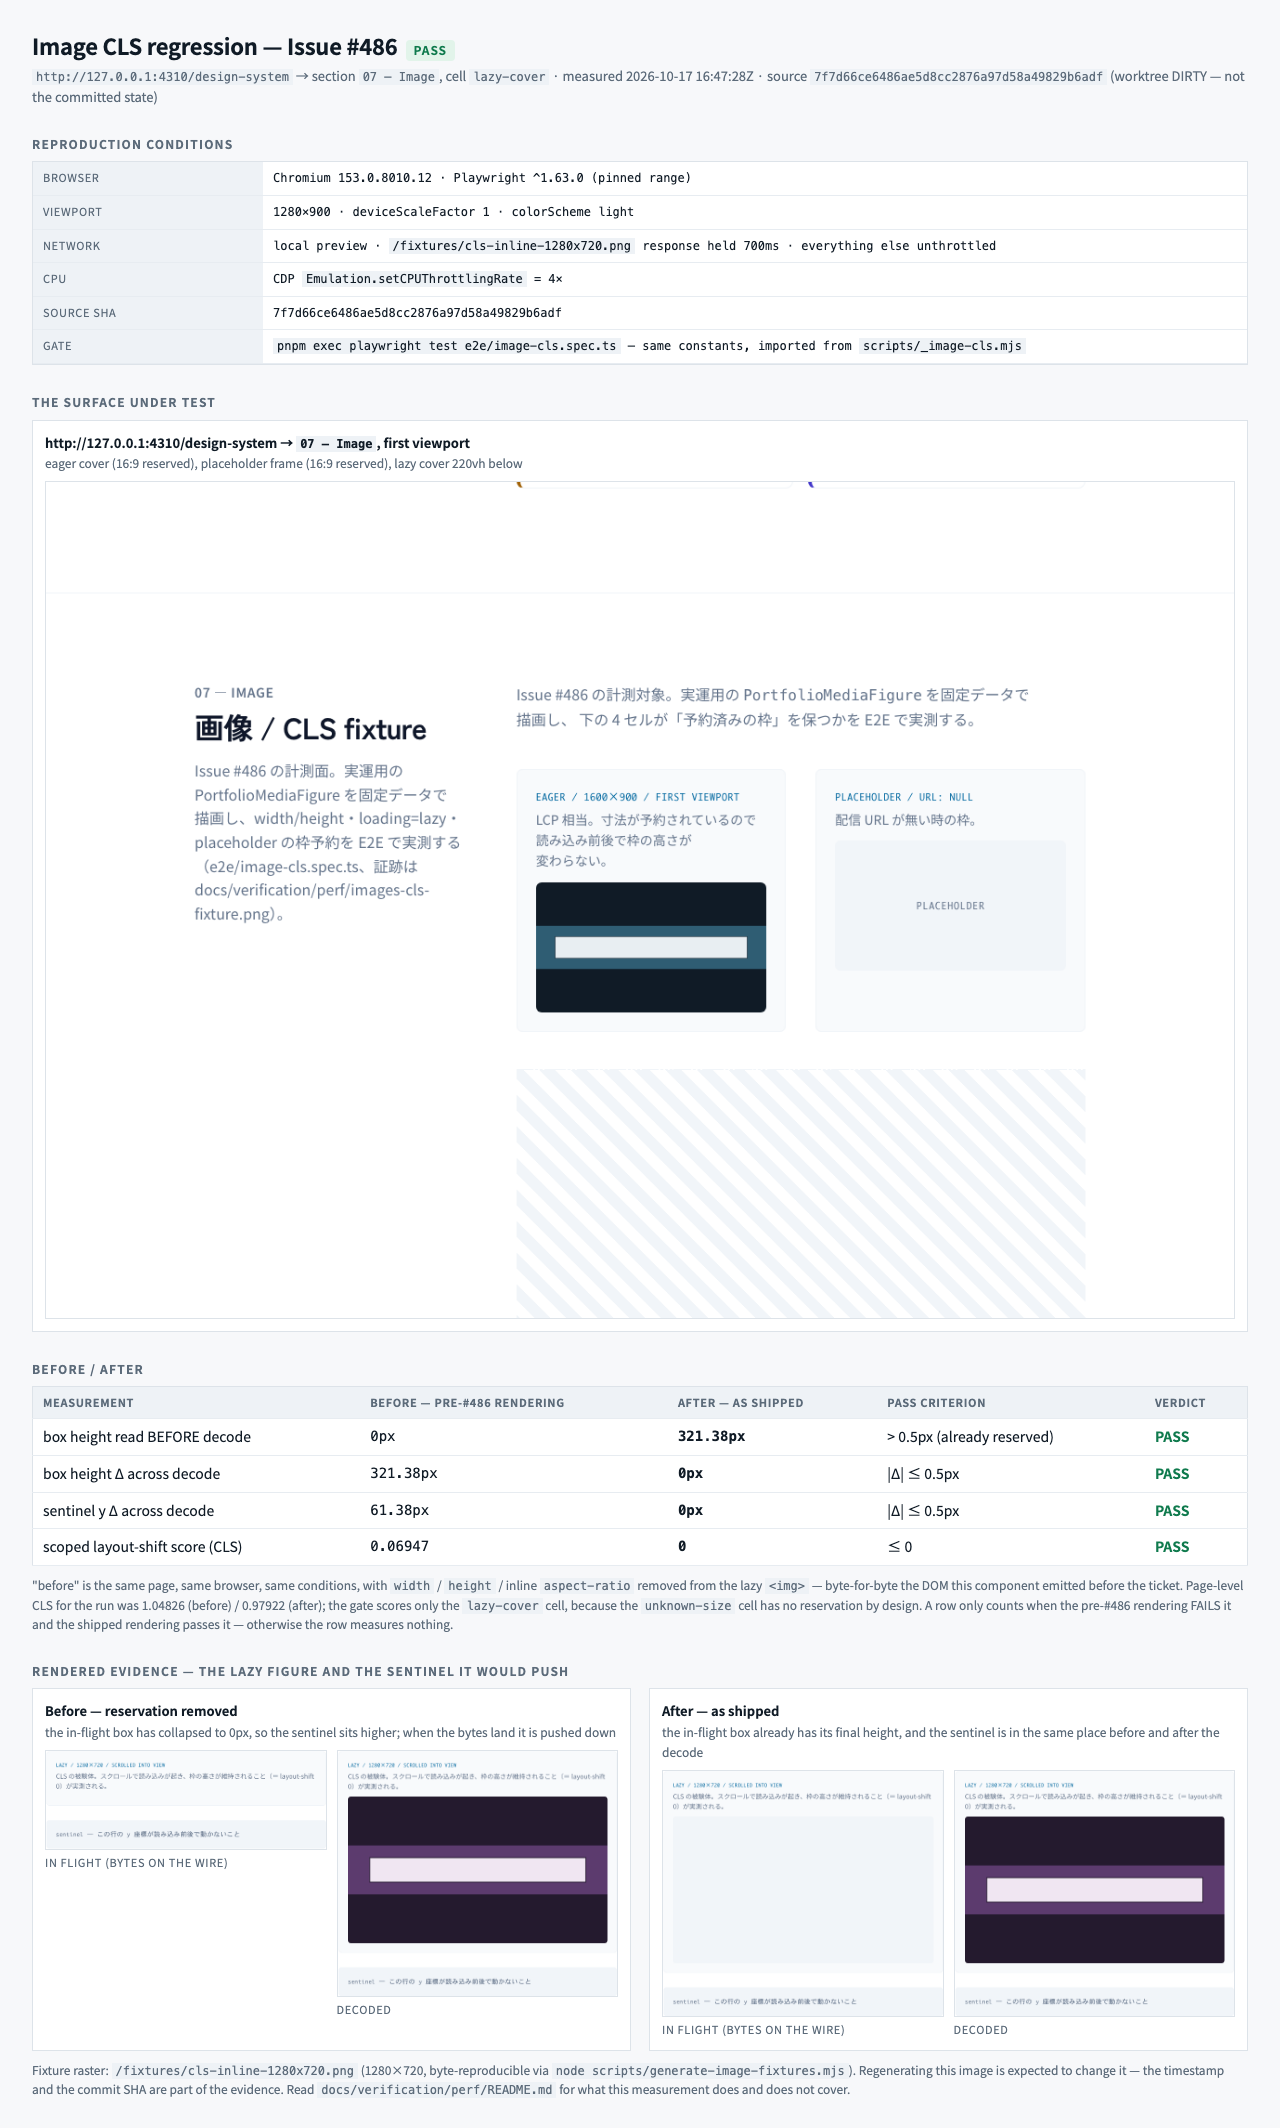
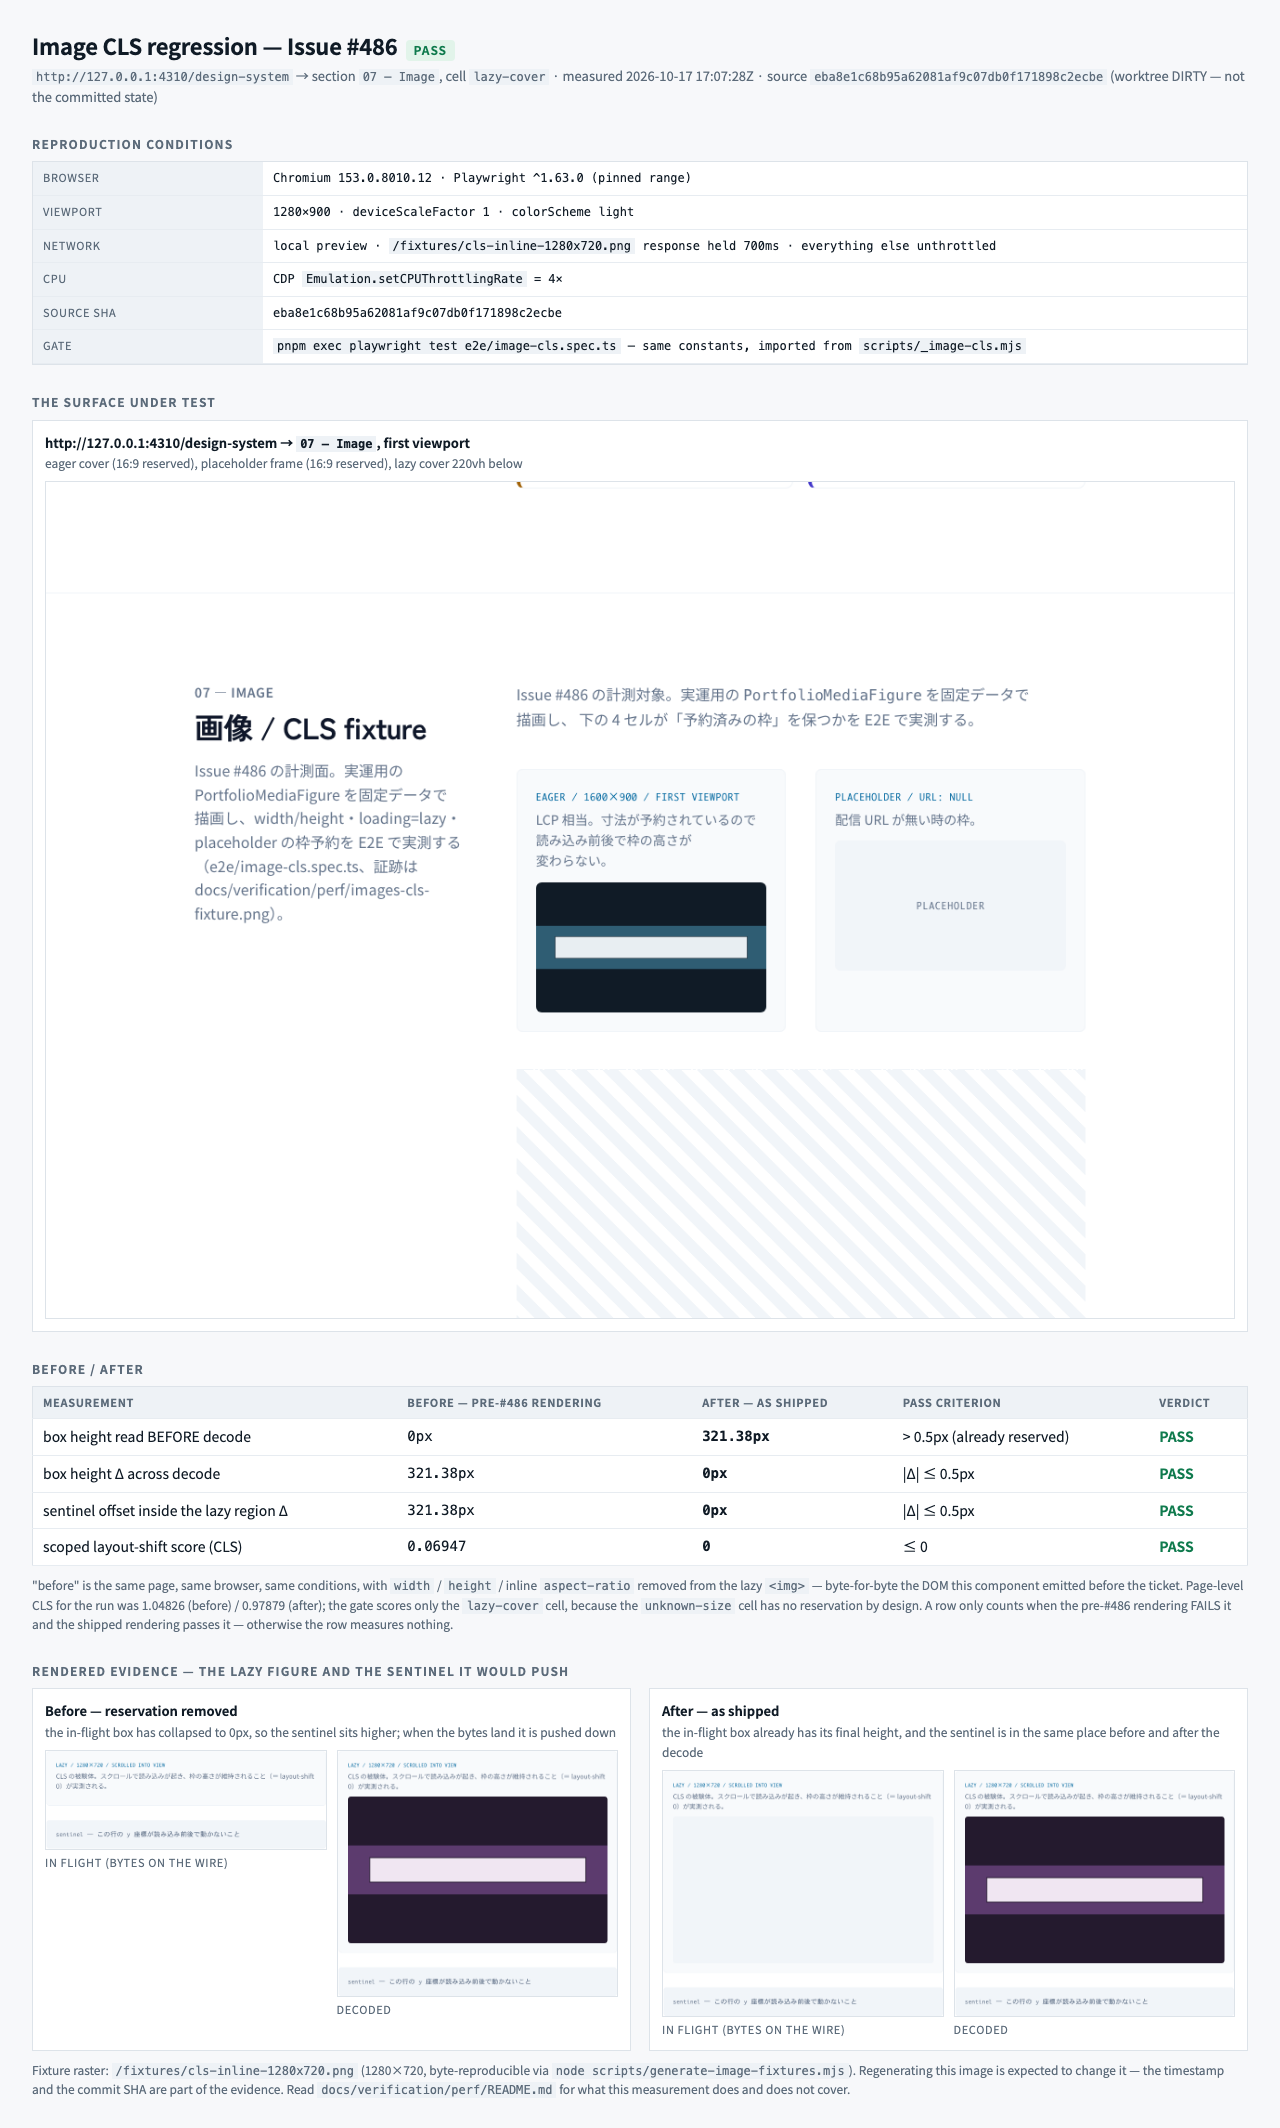
test(perf): measure the sentinel inside the lazy region so the CLS gate stops flaking (#486)

diff --git a/e2e/image-cls.spec.ts b/e2e/image-cls.spec.ts
@@ -9,9 +9,12 @@ import {
 	LAZY_SCOPE_FIXTURE,
 	LAZY_SCOPE_IMAGE,
 	LAZY_SCOPE_IMG_SELECTOR,
+	LAZY_SCOPE_REGION_SELECTOR,
 	LAZY_SCOPE_SENTINEL_SELECTOR,
 	LAZY_SCOPE_SIZE,
+	readDocumentBox,
 	readLayoutShift,
+	regionSentinelOffset,
 	sleep,
 	stripImageReservation,
 } from '../scripts/_image-cls.mjs';
@@ -49,6 +52,9 @@ type Measurement = {
 	sentinelBefore: { x: number; y: number } | null;
 	sentinelAfter: { x: number; y: number } | null;
 	decodedBefore: boolean;
+	/** region-top → sentinel offset, before and after the decode. */
+	offsetBefore: number;
+	offsetAfter: number;
 };
 
 /**
@@ -115,6 +121,13 @@ async function measure(
 	const img = page.locator(LAZY_SCOPE_IMG_SELECTOR);
 	await img.waitFor({ state: 'attached' });
 
+	// Let the web fonts settle BEFORE the lazy fetch is triggered.
+	// Doing it afterwards would spend part of IMAGE_RESPONSE_DELAY_MS
+	// waiting on a font download, and the "before decode" read would
+	// land after the image had already decoded. `figureSentinelGap`
+	// makes this belt-and-braces rather than load-bearing.
+	await page.evaluate(() => document.fonts.ready.then(() => true));
+
 	// Scrolling is what makes the lazy fetch start; the response is
 	// then held for IMAGE_RESPONSE_DELAY_MS.
 	await img.scrollIntoViewIfNeeded();
@@ -134,9 +147,12 @@ async function measure(
 	const decodedBefore = await img.evaluate(
 		(node) => node instanceof HTMLImageElement && node.complete && node.naturalWidth > 0,
 	);
-	const boxBefore = await img.boundingBox();
+	// Document coordinates, not viewport coordinates — see
+	// `readDocumentBox`: a scroll delta is not a layout shift.
+	const boxBefore = await readDocumentBox(img);
 	const sentinel = page.locator(LAZY_SCOPE_SENTINEL_SELECTOR);
-	const sentinelBefore = await sentinel.boundingBox();
+	const sentinelBefore = await readDocumentBox(sentinel);
+	const regionBefore = await readDocumentBox(page.locator(LAZY_SCOPE_REGION_SELECTOR));
 
 	await page.waitForFunction(
 		(selector) => {
@@ -147,15 +163,25 @@ async function measure(
 		{ timeout: 20_000 },
 	);
 
-	const boxAfter = await img.boundingBox();
-	const sentinelAfter = await sentinel.boundingBox();
+	const boxAfter = await readDocumentBox(img);
+	const sentinelAfter = await readDocumentBox(sentinel);
+	const regionAfter = await readDocumentBox(page.locator(LAZY_SCOPE_REGION_SELECTOR));
 	// Let the compositor settle so the load-time shift, if any, has
 	// been delivered to the observer before it is read.
 	await sleep(250);
 	const cls = await readLayoutShift(page);
 	await client.send('Emulation.setCPUThrottlingRate', { rate: 1 });
 
-	return { cls, boxBefore, boxAfter, sentinelBefore, sentinelAfter, decodedBefore };
+	return {
+		cls,
+		boxBefore,
+		boxAfter,
+		sentinelBefore,
+		sentinelAfter,
+		decodedBefore,
+		offsetBefore: regionSentinelOffset(regionBefore, sentinelBefore),
+		offsetAfter: regionSentinelOffset(regionAfter, sentinelAfter),
+	};
 }
 
 test.describe('image layout contract (/design-system 07 — Image)', () => {
@@ -219,10 +245,12 @@ test.describe('image layout contract (/design-system 07 — Image)', () => {
 		// bytes landed.
 		expect(measurement.decodedBefore).toBe(false);
 
-		// The box is already its final size before the bytes arrive…
+		// The box already has its final height BEFORE the bytes arrive…
+		expect(boxes.before.height).toBeGreaterThan(BOX_EPSILON_PX);
+		// …is unchanged by the decode…
 		expect(Math.abs(boxes.after.height - boxes.before.height)).toBeLessThanOrEqual(BOX_EPSILON_PX);
-		// …and the content below it never moved.
-		expect(Math.abs(boxes.sentinelAfter.y - boxes.sentinelBefore.y)).toBeLessThanOrEqual(
+		// …and the content below it is not pushed by it.
+		expect(Math.abs(measurement.offsetAfter - measurement.offsetBefore)).toBeLessThanOrEqual(
 			BOX_EPSILON_PX,
 		);
 
@@ -246,7 +274,7 @@ test.describe('image layout contract (/design-system 07 — Image)', () => {
 		expect(boxes.after.height).toBeGreaterThan(boxes.before.height + 1);
 
 		// And the sentinel below it was pushed down by that growth.
-		expect(boxes.sentinelAfter.y).toBeGreaterThan(boxes.sentinelBefore.y + 1);
+		expect(measurement.offsetAfter).toBeGreaterThan(measurement.offsetBefore + 1);
 		expect(measurement.cls.scoped).toBeGreaterThan(0);
 	});
 });
